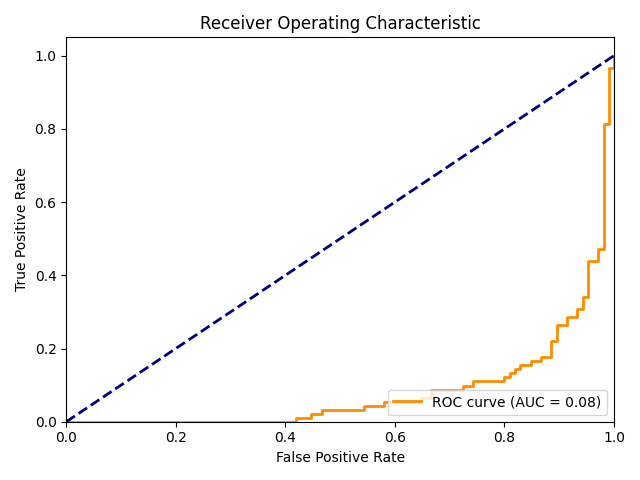
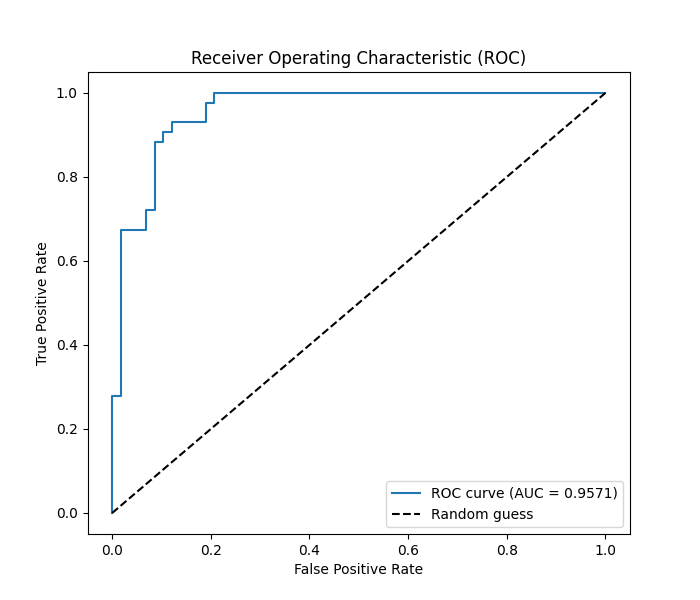
final update of backend, model was too bad, now updated with code

diff --git a/Backend/medScan/views.py b/Backend/medScan/views.py
@@ -1,5 +1,4 @@
-from fastapi import APIRouter, UploadFile, File, HTTPException
-from fastapi.responses import JSONResponse
+from fastapi import APIRouter, UploadFile, File
 from medScan.model_loader import get_model  # Assuming this function loads your model
 from PIL import Image
 import io
@@ -8,24 +7,18 @@ import zipfile
 import tempfile
 import os
 import aiofiles 
-from fastapi.responses import FileResponse
+from torch.utils.data import DataLoader
 from torchvision import transforms
 from PIL import Image 
 import matplotlib.pyplot as plt
 from sklearn.metrics import confusion_matrix, roc_curve, auc, classification_report
 import seaborn as sns
 import numpy as np
-
+from medScan.preprocessing import FilteredBinaryDataset
 
 router = APIRouter()
 
-transform = transforms.Compose([
-    transforms.Resize((224, 224)),
-    transforms.ColorJitter(brightness=0.2, contrast=0.2),
-    transforms.ToTensor(),
-    transforms.Normalize([0.485, 0.456, 0.406],
-                         [0.229, 0.224, 0.225])
-])
+
 
 
 @router.post("/predict/single")
@@ -33,24 +26,35 @@ async def predict_single(file: UploadFile = File(...)):
     print("Received file:", file.filename)
     print("Content type:", file.content_type)
 
+    # Read and convert the image
     contents = await file.read()
     image = Image.open(io.BytesIO(contents)).convert("RGB")
-    
+
+    # Define transform (same as training)
+    transform = transforms.Compose([
+        transforms.Resize((224, 224)),
+        transforms.ToTensor(),
+        transforms.Normalize([0.485, 0.456, 0.406],
+                             [0.229, 0.224, 0.225])
+    ])
+
+    # Transform image
+    tensor_image = transform(image)
+    assert isinstance(tensor_image, torch.Tensor), "Transform did not return a tensor"
+    image_tensor = tensor_image.unsqueeze(0)  # Add batch dimension
+
+    # Load model and make prediction
     model = get_model()
     device = torch.device("cuda" if torch.cuda.is_available() else "cpu")
-
-    # Apply same preprocessing as during training
-    tensor_image = transform(image)
-    print("Transformed image type:", type(tensor_image))
-    assert isinstance(tensor_image, torch.Tensor), "Transform did not return a tensor"
-    image = tensor_image.unsqueeze(0).to(device) 
+    model = model.to(device)
+    image_tensor = image_tensor.to(device)
 
     with torch.no_grad():
-        output = model(image)
+        output = model(image_tensor)
         prob = torch.sigmoid(output).item()
         prediction = 1 if prob > 0.5 else 0
-    
-    # Return both prediction and confidence
+
+    # Return result
     return {
         "prediction": "Cardiomegaly" if prediction == 1 else "No Finding",
         "confidence": round(prob, 4)
@@ -59,16 +63,6 @@ async def predict_single(file: UploadFile = File(...)):
 
 
 
-def predict_image(model, device, image_path):
-    image = Image.open(image_path).convert("RGB")
-    tensor_image = transform(image)
-    print("Transformed image type:", type(tensor_image))
-    assert isinstance(tensor_image, torch.Tensor), "Transform did not return a tensor"
-    image = tensor_image.unsqueeze(0).to(device) 
-    with torch.no_grad():
-        output = model(image)
-        prob = torch.sigmoid(output).item()
-        return 1 if prob >= 0.5 else 0 
     
 @router.post("/predict/folder")
 async def predict_folder(file: UploadFile = File(...)):
@@ -91,99 +85,88 @@ async def predict_folder(file: UploadFile = File(...)):
             extracted_files = zip_ref.namelist()
             print(f"Extracted files: {extracted_files}")
 
-        image_paths = []
-        labels = []
-        y_true = []
-        y_pred = []
-        y_prob = []
-        class_map = {'Cardiomegaly': 1, 'No Finding': 0}
-        for class_name in os.listdir(temp_dir):
-            if class_name not in class_map:
-                continue
-            class_dir = os.path.join(temp_dir, class_name)
-            if not os.path.isdir(class_dir):
-                continue
-            for fname in os.listdir(class_dir):
-                if fname.lower().endswith(('.png', '.jpg', '.jpeg')):
-                    image_paths.append(os.path.join(class_dir, fname))
-                    labels.append(class_map[class_name])
+         # Change to your validation/test folder path
+        val_dataset = FilteredBinaryDataset(temp_dir)
+        val_loader = DataLoader(val_dataset, batch_size=16, shuffle=False)
+        
+        class_names = ['No Finding', 'Cardiomegaly']
 
-        if not image_paths:
-            print("No images found after extraction.")
-            return {"status": "error", "detail": "No images found in the uploaded zip file."}
+        # --- Run inference on the validation set ---
+        all_labels = []
+        all_preds = []
+        all_probs = []
+        all_paths = []
 
-        model.eval()
         with torch.no_grad():
-            for img_path, label in zip(image_paths, labels):
-                try:
-                    img = Image.open(img_path).convert('RGB')
-                except Exception as img_e:
-                    print(f"Failed to open image {img_path}: {img_e}")
-                    continue
-                tensor = transform(img)
-                if not isinstance(tensor, torch.Tensor):
-                    print(f"Transform did not return a tensor for {img_path}")
-                    continue
-                img = tensor.unsqueeze(0).to(device)
-                output = model(img)
-                prob = torch.sigmoid(output).item()
-                pred = 1 if prob > 0.5 else 0
-                y_true.append(label)
-                y_pred.append(pred)
-                y_prob.append(prob)
+            for images, labels, paths in val_loader:
+                images = images.to(device)
+                outputs = model(images)
+                probs = torch.sigmoid(outputs).squeeze().cpu().numpy()
+                preds = (probs > 0.5).astype(int)
 
-        if not y_true or not y_pred:
-            print("No valid predictions made.")
-            return {"status": "error", "detail": "No valid images for prediction."}
-
-        acc = np.mean(np.array(y_true) == np.array(y_pred))
-        print(f'Accuracy: {acc:.4f}')
-
-        # Confusion Matrix
-        cm = confusion_matrix(y_true, y_pred)
-        plt.figure(figsize=(4,4))
-        sns.heatmap(cm, annot=True, fmt='d', cmap='Blues', xticklabels=['Cardiomegaly','No Finding'], yticklabels=['Cardiomegaly','No Finding'])
+                all_labels.extend(labels.numpy())
+                all_preds.extend(preds)
+                all_probs.extend(probs)
+                all_paths.extend(paths)
+                
+        cm = confusion_matrix(all_labels, all_preds)
+        plt.figure(figsize=(6,5))
+        sns.heatmap(cm, annot=True, fmt='d', cmap='Blues', xticklabels=class_names, yticklabels=class_names)
         plt.xlabel('Predicted')
         plt.ylabel('True')
         plt.title('Confusion Matrix')
+        plt.savefig('confusion_matrix.png')   # Save PNG file
+        plt.show()
+
+        # --- Classification Report ---
+        print("Classification Report:")
+        report = classification_report(all_labels, all_preds, target_names=class_names)
+        # --- ROC Curve & AUC ---
+        fpr, tpr, _ = roc_curve(all_labels, all_probs)
+        roc_auc = auc(fpr, tpr)
+
+        plt.figure(figsize=(7,6))
+        plt.plot(fpr, tpr, label=f'ROC curve (AUC = {roc_auc:.4f})')
+        plt.plot([0, 1], [0, 1], 'k--', label='Random guess')
+        plt.xlabel('False Positive Rate')
+        plt.ylabel('True Positive Rate')
+        plt.title('Receiver Operating Characteristic (ROC)')
+        plt.legend(loc='lower right')
+        plt.savefig('roc_curve.png')  # Save PNG file
+        plt.show()
+
+        # --- Visualization of some predictions with images ---
+        def imshow(img_tensor, title=None):
+            img = img_tensor.cpu().numpy().transpose((1, 2, 0))
+            mean = np.array([0.485, 0.456, 0.406])
+            std = np.array([0.229, 0.224, 0.225])
+            img = std * img + mean  # unnormalize
+            img = np.clip(img, 0, 1)
+            plt.imshow(img)
+            if title:
+                plt.title(title)
+            plt.axis('off')
+
+        num_images = 8
+        plt.figure(figsize=(16, 6))
+        for i in range(num_images):
+            image_tensor, true_label, img_path = val_dataset[i]
+            pred_label = all_preds[i]
+            pred_prob = all_probs[i]
+            title = f"T: {class_names[true_label]}\nP: {class_names[pred_label]} ({pred_prob:.2f})"
+
+            plt.subplot(2, 4, i + 1)
+            imshow(image_tensor, title=title)
         plt.tight_layout()
-        plt.savefig('confusion_matrix.png')
-        plt.close()
-
-        # ROC Curve & AUC
-        try:
-            fpr, tpr, _ = roc_curve(y_true, y_prob)
-            roc_auc = auc(fpr, tpr)
-            plt.figure()
-            plt.plot(fpr, tpr, color='darkorange', lw=2, label=f'ROC curve (AUC = {roc_auc:.2f})')
-            plt.plot([0, 1], [0, 1], color='navy', lw=2, linestyle='--')
-            plt.xlim([0.0, 1.0])
-            plt.ylim([0.0, 1.05])
-            plt.xlabel('False Positive Rate')
-            plt.ylabel('True Positive Rate')
-            plt.title('Receiver Operating Characteristic')
-            plt.legend(loc='lower right')
-            plt.tight_layout()
-            plt.savefig('roc_curve.png')
-            plt.close()
-        except Exception as roc_e:
-            print(f"ROC/AUC calculation failed: {roc_e}")
-            roc_auc = None
-
-        # Classification Report
-        try:
-            report = classification_report(y_true, y_pred, target_names=['Cardiomegaly','No Finding'])
-        except Exception as rep_e:
-            print(f"Classification report failed: {rep_e}")
-            report = str(rep_e)
+        plt.savefig('sample_predictions.png')  # Save PNG file
+        plt.show()
 
         return {
-            'accuracy': acc,
-            'confusion_matrix': cm.tolist(),
             'roc_auc': roc_auc,
             'classification_report': report,
             'confusion_matrix_img': 'confusion_matrix.png',
-            'roc_curve_img': 'roc_curve.png' if roc_auc is not None else None
+            'roc_curve_img': 'roc_curve.png' if roc_auc is not None else None,
+            'sample_predictions_img': 'sample_predictions.png'
         }
         
     except Exception as e:

diff --git a/Backend/medScan/model_loader.py b/Backend/medScan/model_loader.py
@@ -1,8 +1,7 @@
 import os
 import torch
-from torchvision import datasets, transforms, models
+from torchvision import models
 import torch.nn as nn
-from torchvision.models import resnet152, ResNet152_Weights
 
 Model = None  # Global model object
 
@@ -11,25 +10,21 @@ def load_model_once():
 
     if Model is None:
         print("Model is being loaded... This may take a while.")
-
         device = torch.device("cuda" if torch.cuda.is_available() else "cpu")
-        print(f"Using device: {device}")
-
-
-        weights = ResNet152_Weights.DEFAULT
-        model = resnet152(weights=weights)
-
-        model.fc = nn.Linear(model.fc.in_features, 1)
+        model = models.resnet18(pretrained=False)
+        model.fc = torch.nn.Linear(model.fc.in_features, 1)
+        model_path = os.path.join("static", "model", "resnet18_binary_cardiomegaly.pth")
+        
 
        
-        model_path = os.path.join("static", "model", "best_resnet152_binary.pth")
+        
 
         if not os.path.exists(model_path):
             raise FileNotFoundError(f"❌ Model file not found at: {model_path}")
 
         # Load state dict
         model.load_state_dict(torch.load(model_path, map_location=device))
-        model.to(device)
+        model = model.to(device)
         model.eval()  # Set to evaluation mode
 
         Model = model

diff --git a/Backend/medScan/preprocessing.py b/Backend/medScan/preprocessing.py
@@ -1,0 +1,30 @@
+import torch
+from PIL import Image
+from torchvision import transforms
+import os
+
+# --- Dataset class ---
+class FilteredBinaryDataset(torch.utils.data.Dataset):
+    def __init__(self, root_dir, class_map={'Cardiomegaly': 1, 'No Finding': 0}, transform=None):
+        self.samples = []
+        self.transform = transform or transforms.Compose([
+            transforms.Resize((224, 224)),
+            transforms.ToTensor(),
+            transforms.Normalize([0.485, 0.456, 0.406],
+                                 [0.229, 0.224, 0.225])
+        ])
+        for class_name, label in class_map.items():
+            class_path = os.path.join(root_dir, class_name)
+            if os.path.exists(class_path):
+                for fname in os.listdir(class_path):
+                    if fname.lower().endswith(('.png', '.jpg', '.jpeg')):
+                        self.samples.append((os.path.join(class_path, fname), label))
+
+    def __len__(self):
+        return len(self.samples)
+
+    def __getitem__(self, idx):
+        image_path, label = self.samples[idx]
+        image = Image.open(image_path).convert("RGB")
+        image = self.transform(image)
+        return image, label, image_path
